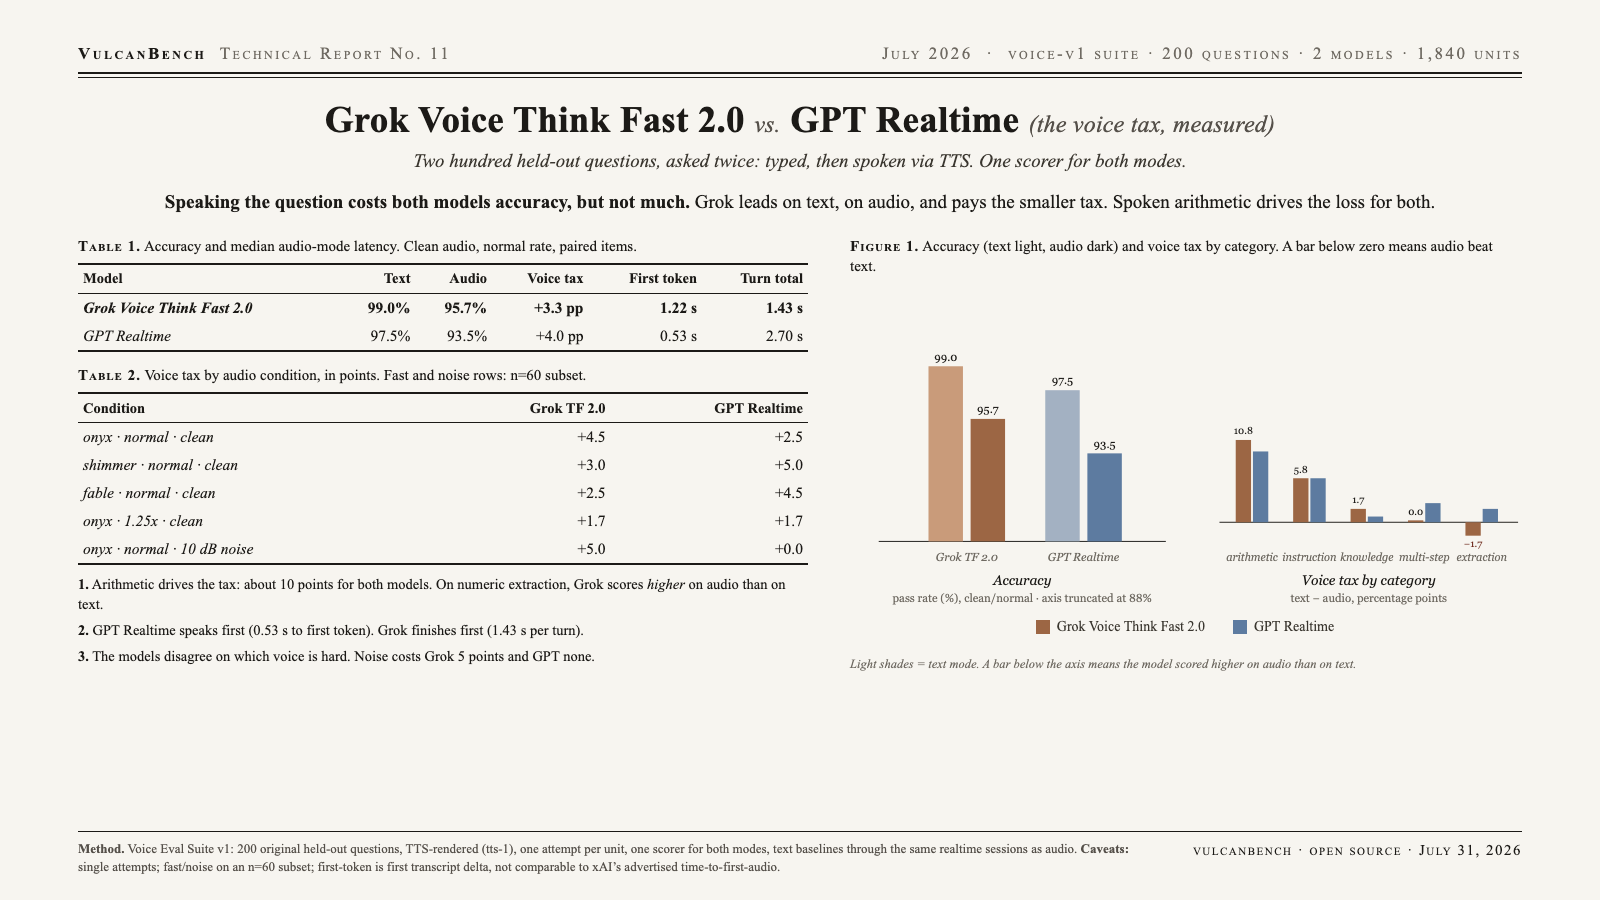
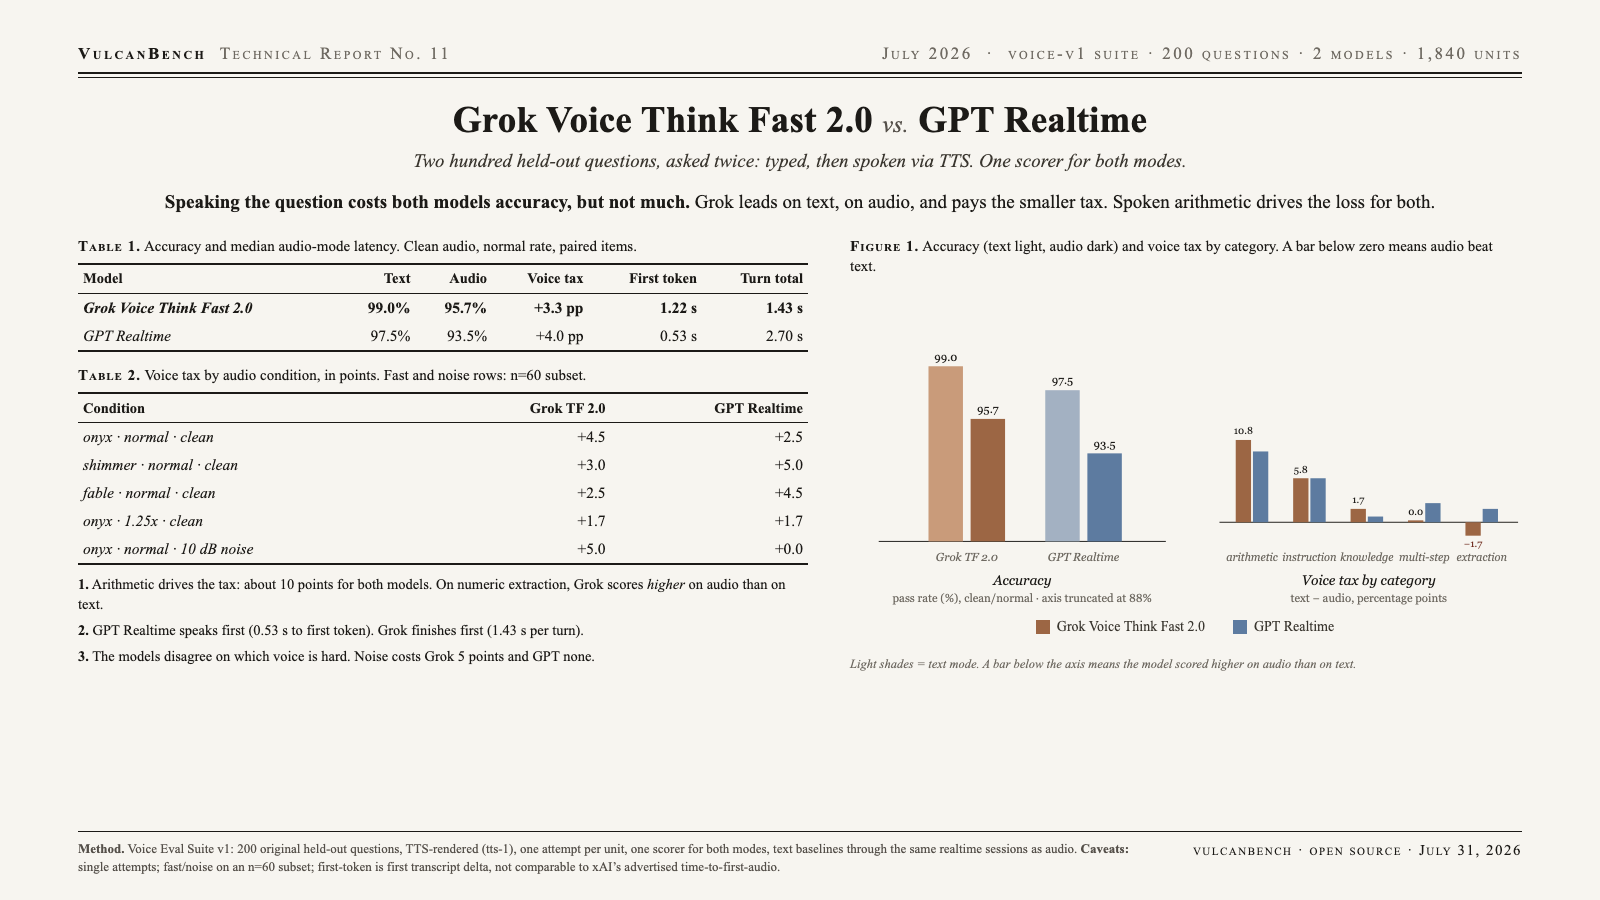
Report 11: model-first md title, trim wording, drop card h1 parenthetical
model-card.md gets the same treatment as the rendered card: title leads
with the models compared, em-dashes removed, findings tightened. The
card h1 loses '(the voice tax, measured)'.

Changed region(s): [[0.1875, 0.0933, 0.8125, 0.1556]]

diff --git a/docs/results/voice-v1-2026-07/card.html b/docs/results/voice-v1-2026-07/card.html
@@ -42,7 +42,7 @@ tbody tr.win td { font-weight: 700; }
   <div class="masthead"><span><b>VulcanBench</b> &nbsp;Technical Report No. 11</span><span>July 2026 &nbsp;&middot;&nbsp; voice-v1 suite &middot; 200 questions &middot; 2 models &middot; 1,840 units</span></div>
   <div class="rule2"></div><div class="rule1"></div>
 
-  <h1>Grok Voice Think Fast 2.0 <span class="eff">vs.</span> GPT Realtime <span class="eff">(the voice tax, measured)</span></h1>
+  <h1>Grok Voice Think Fast 2.0 <span class="eff">vs.</span> GPT Realtime</h1>
   <div class="authors">Two hundred held-out questions, asked twice: typed, then spoken via TTS. One scorer for both modes.</div>
 
   <div class="abstract">

diff --git a/docs/results/voice-v1-2026-07/model-card.md b/docs/results/voice-v1-2026-07/model-card.md
@@ -1,44 +1,39 @@
-# VulcanBench Technical Report No. 11 — The Voice Tax
+# VulcanBench Technical Report No. 11: Grok Voice Think Fast 2.0 vs GPT Realtime
 
 **July 31, 2026 · Voice Eval Suite v1 · 200 questions · 2 models · 1,840 units · 0 errors**
 
-First results from the Voice Eval Suite: the same 200 held-out short-form questions delivered
-twice to each model — typed, and spoken via TTS — under three voices, 1.25x speech, and 10 dB
-ambient noise. The **voice tax** is text accuracy minus audio accuracy (clean/normal, paired
-items). This measures a delta between input modalities; it makes no claim about other
-benchmarks.
+First results from the Voice Eval Suite. The same 200 held-out questions went to each model
+twice, typed and spoken via TTS, under three voices, 1.25x speech, and 10 dB ambient noise.
+The **voice tax** is text accuracy minus audio accuracy (clean/normal, paired items). This
+measures a delta between input modalities; it makes no claim about other benchmarks.
 
 ## Results
 
-| Model | Text | Audio (clean/normal) | Voice tax | First token, audio (med) | Turn total, audio (med) |
+| Model | Text | Audio | Voice tax | First token (audio) | Turn total (audio) |
 |---|---|---|---|---|---|
 | **grok-voice** (Grok Voice Think Fast 2.0) | **99.0%** | **95.7%** | **+3.3 pp** | 1.22 s | **1.43 s** |
 | openai-realtime (gpt-realtime) | 97.5% | 93.5% | +4.0 pp | **0.53 s** | 2.70 s |
 
-Zero STT fallbacks: both models returned text transcripts for every answer, so the
-modality-blind scorer never depended on external transcription.
+Zero STT fallbacks: both models returned transcripts for every answer, so the scorer never
+depended on external transcription.
 
 ## Findings
 
-1. **Both models pay a real but modest voice tax — and Grok pays less.** Grok Voice Think
-   Fast 2.0 leads on text (99.0 vs 97.5), on audio (95.7 vs 93.5), and on the tax itself
-   (+3.3 vs +4.0 pp).
+1. **Both models pay a real but modest voice tax; Grok pays less.** It leads on text, on
+   audio, and on the tax itself.
 
-2. **The tax lives in arithmetic.** Both models drop ~10 pp on spoken arithmetic (Grok
-   100 → 89.2, OpenAI 100 → 90.8) — hearing "17 times 6, minus 14" is harder than reading
-   it when the operands can't be re-read. Every other category taxes at 6 pp or less.
+2. **The tax lives in arithmetic.** Both models drop about 10 pp on spoken arithmetic (Grok
+   100 to 89.2, OpenAI 100 to 90.8). Spoken operands can't be re-read. Every other category
+   taxes 6 pp or less.
 
-3. **Grok's tax goes negative on numeric extraction** (−1.7 pp): it is slightly *better* at
-   pulling numbers out of spoken context than written — consistent with xAI's
-   transcription-accuracy emphasis.
+3. **Grok's tax goes negative on numeric extraction** (-1.7 pp): slightly better at pulling
+   numbers out of spoken context than written.
 
-4. **Latency profiles are opposites.** OpenAI streams its first token ~2.3x sooner (0.53 s
-   vs 1.22 s median); Grok *finishes* turns ~1.9x faster (1.43 s vs 2.70 s). Grok's
-   reason-while-speaking design shows up exactly here.
+4. **Latency profiles are opposites.** OpenAI streams its first token 2.3x sooner (0.53 s vs
+   1.22 s median); Grok finishes turns 1.9x faster (1.43 s vs 2.70 s).
 
-5. **Voice choice moves accuracy ~2 pp.** Grok hears the British-accented `fable` best
-   (96.5%) and `onyx` worst (94.5%); OpenAI's worst is `shimmer` (92.5%). Ten decibels of
-   ambient noise costs Grok 5.0 pp of tax on the subset and OpenAI nothing (n=60 — the
+5. **Voice choice moves accuracy about 2 pp.** Grok hears `fable` best and `onyx` worst;
+   OpenAI's worst is `shimmer`. Noise costs Grok 5.0 pp of tax and OpenAI none (n=60, the
    softest numbers in the report).
 
 ## By category (voice tax, pp)
@@ -49,14 +44,14 @@ modality-blind scorer never depended on external transcription.
 | instruction-following | +5.8 | +5.8 |
 | general-knowledge | +1.7 | +0.8 |
 | multi-step-reasoning | +0.0 | +2.5 |
-| numeric-extraction | **−1.7** | +1.7 |
+| numeric-extraction | **-1.7** | +1.7 |
 
 ## Caveats
 
-- Single attempt per unit: one item ≈ 0.5 pp. Only multi-point gaps are meaningful.
+- Single attempt per unit: one item is about 0.5 pp. Only multi-point gaps are meaningful.
 - Fast-rate and noise conditions ran on the seeded n=60 subset.
-- Our `t_first` is time-to-first-*transcript-delta*; xAI's advertised 0.70 s is
-  time-to-first-*audio*. Different metrics — do not compare directly.
+- Our `t_first` is time to first transcript delta; xAI's advertised 0.70 s is time to first
+  audio. Different metrics; do not compare directly.
 - Two models; Gemini Live and Qwen3-Omni adapters exist but did not run (keys not provisioned).
 
 ## Reproducibility
